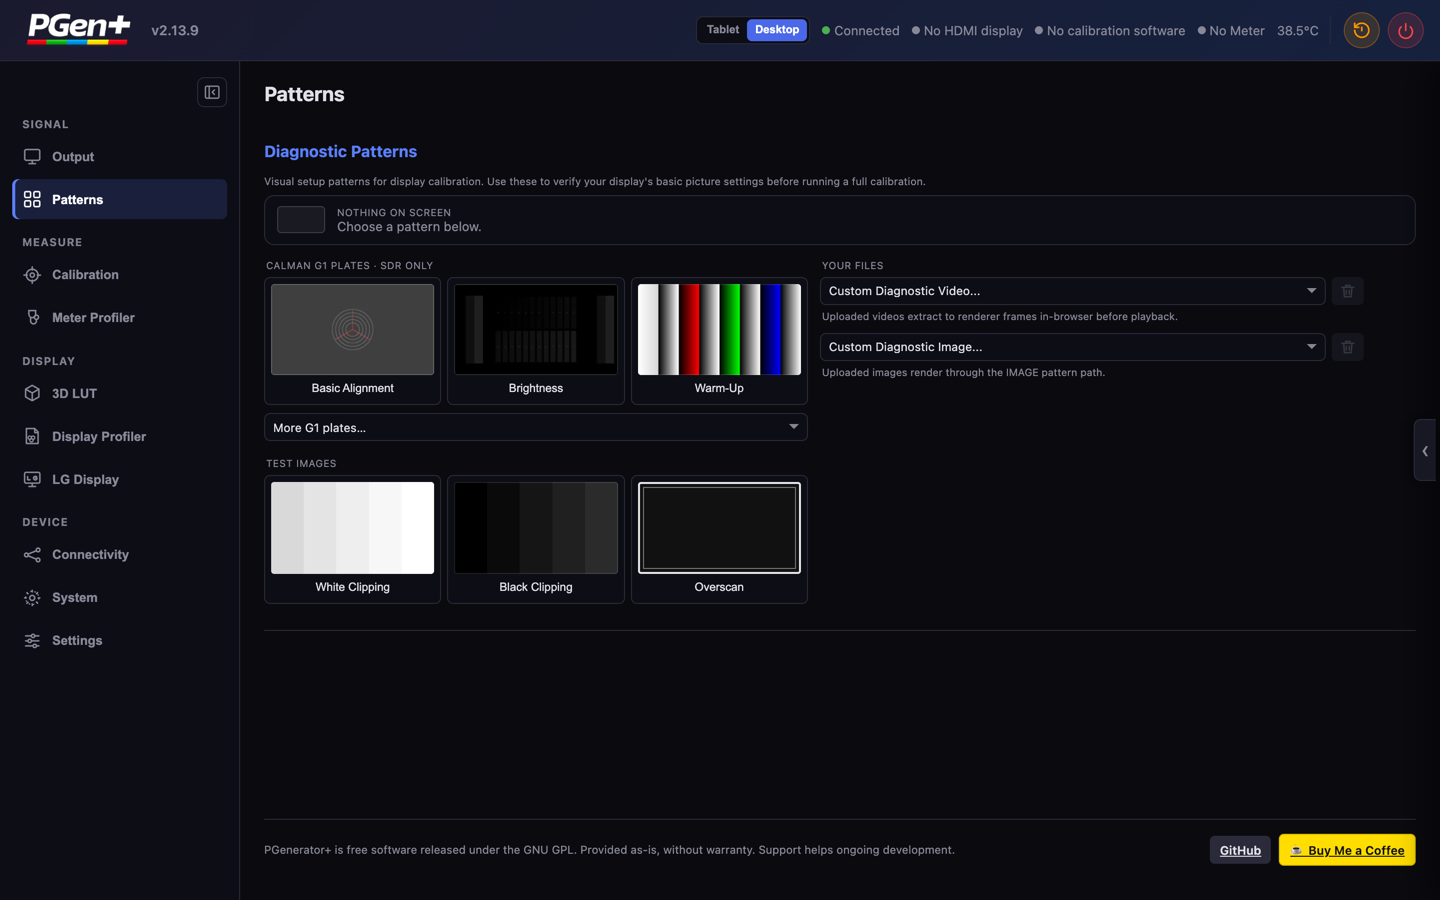
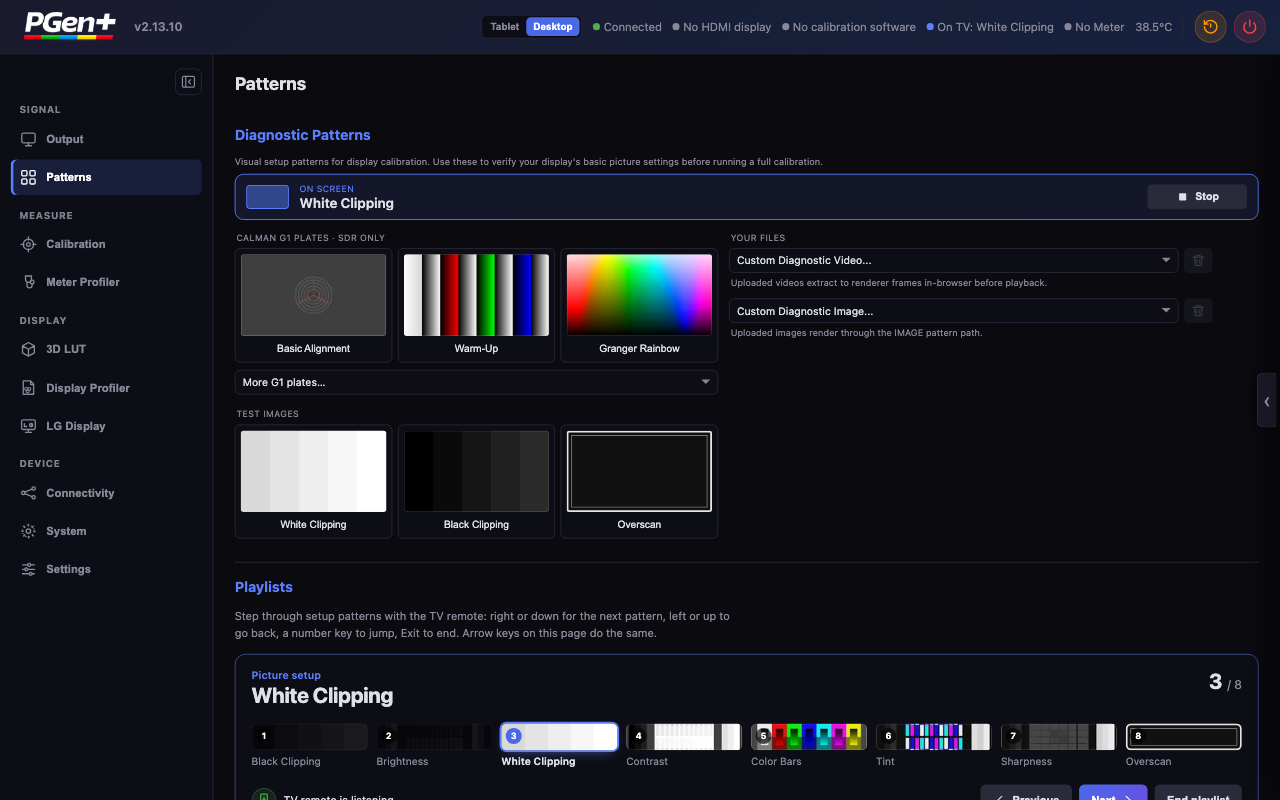
README: TV pattern menu, playlists, self-test; add CLAUDE.md

diff --git a/README.md b/README.md
@@ -21,14 +21,14 @@
 </p>
 
 <p align="center">
-  <img src="screenshots/webui-patterns.png" alt="PGenerator+ Web UI: Patterns workspace with Calman G1 plates and test images" width="900"/>
+  <img src="screenshots/webui-patterns.png" alt="PGenerator+ Web UI: Patterns workspace with Calman G1 plates, test images and the playlist deck" width="900"/>
 </p>
 
 ---
 
 ## Why this fork
 
-This is **BlackJoker90's fork** of [BigShoots/PGenerator-Plus](https://github.com/BigShoots/PGenerator-Plus). It branched from upstream 2.12.1 in September 2026 and has had **110+ commits and 23 releases** since then (2.12.2 → 2.13.x). Upstream has nothing newer that the fork lacks.
+This is **BlackJoker90's fork** of [BigShoots/PGenerator-Plus](https://github.com/BigShoots/PGenerator-Plus). It branched from upstream 2.12.1 in September 2026 and has had **115+ commits and 24 releases** since then (2.12.2 → 2.13.x). Upstream has nothing newer that the fork lacks.
 
 Everything the original does is still here: patterns over TCP for Calman, ColourSpace, HCFR and Resolve; on-Pi meter workflows; LG AutoCal; profile building. The fork's focus is the **signal on the HDMI cable** and the **day-to-day experience**:
 
@@ -37,7 +37,7 @@ Everything the original does is still here: patterns over TCP for Calman, Colour
 <td width="50%" valign="top">
 
 ### 🎯 Bit-exact output
-10-bit pattern codes reach the GPU **without 8-bit quantisation**. **RGB Limited is bit-exact**: a patched vc4 module skips the kernel's compression CSC. HDR10/HLG at 12 bpc goes out as bit-exact 10 bpc instead of crashing the renderer. Scanout readback on the Pi checks the codes; nobody has to eyeball them.
+10-bit pattern codes reach the GPU **without 8-bit quantisation**. **RGB Limited is bit-exact**: a patched vc4 module skips the kernel's compression CSC. HDR10/HLG at 12 bpc goes out as bit-exact 10 bpc instead of crashing the renderer. **8-bit patterns on a 10 bpc link** go out as exactly code × 4 (126 → 504), in SDR, HDR10 and LLDV. The G1 Brightness and Contrast plates switch to **10-bit steps** (0–95, 928–1023) on a 10 bpc link. Scanout readback on the Pi checks the codes; nobody has to eyeball them.
 
 </td>
 <td width="50%" valign="top">
@@ -57,7 +57,7 @@ The UPGCI handshake now has proper ACKs and the settings format Calman actually 
 <td valign="top">
 
 ### 🌈 Dolby Vision, fixed
-Low Latency DV renders at **12 bpc** and really switches the TV into DV. Leaving DV signals "DV off" properly and restores the SDR colorimetry. Calman DV consistently runs as standard DV.
+Low Latency DV renders at **12 bpc** and really switches the TV into DV, with pattern codes sent at 10 bit. Leaving DV signals "DV off" properly and gives back the format, range and depth you had before DV, and the SDR colorimetry. Calman DV consistently runs as standard DV.
 
 </td>
 </tr>
@@ -79,13 +79,27 @@ Without a display, the renderer waits instead of failing. The UI says so in a ba
 <td valign="top">
 
 ### 📦 Safer OTA updates
-Updates come from **this fork's releases**. The dialog shows the release notes and download progress. You can **reinstall or roll back** to an earlier release. Update checks are cached (gentle on the GitHub API), and cross-site requests to the WebUI are refused.
+Updates come from **this fork's releases**. The dialog shows the release notes and download progress. You can **reinstall or roll back** to an earlier release. Packages are about **20 % smaller** (stripped binaries, no duplicate files, unused Python modules dropped). Update checks are cached (gentle on the GitHub API), and cross-site requests to the WebUI are refused.
 
 </td>
 <td valign="top">
 
 ### 🧹 Small things that add up
 mDNS answers AAAA queries with an NSEC record, so clients do not wait for an IPv6 address that never comes. `/api/lg/status` answers in milliseconds instead of ~4 s. The boot splash shows once, early. **Download Logs** replaces the old log upload.
+
+</td>
+</tr>
+<tr>
+<td valign="top">
+
+### 🧪 Signal self-test
+One button in **System** runs nine signal modes (SDR RGB Limited/Full and YCbCr 4:2:2/4:4:4, HDR10 YCbCr 4:2:2/4:4:4, Dolby Vision Standard and Low Latency). In each mode it draws known codes, **reads back what the Pi scans out** and checks the link depth and AVI infoframe. Your signal settings come back afterwards; a quick check covers three modes in about 40 s.
+
+</td>
+<td valign="top">
+
+### 📺 Pattern menu and playlists on the TV remote
+Press **OK or Menu on the TV remote** and a menu of every pattern appears on the TV: G1 plates, test images and playlists as thumbnails. Arrows move, OK shows the pattern, left/right step on, Back returns to the menu. No phone needed. It dims itself in HDR and Dolby Vision and closes after ten idle minutes (OLED). Playlists step the same way: right or down for next, left or up for back, a number key to jump, Exit to end. Three built-in playlists (Picture setup, Greyscale windows, Panel check), plus your own from G1 plates, test images, uploads and APL windows. A deck on the page shows where you are.
 
 </td>
 </tr>
@@ -106,7 +120,10 @@ mDNS answers AAAA queries with an NSEC record, so clients do not wait for an IPv
 | No display connected | renderer started anyway | waits for a display, banner in the UI, saved mode kept |
 | WebUI themes | dark / light / system | **10 themes** incl. Natrium dark & light |
 | HDMI link readout | – | measured link depth and clock |
-| OTA | latest release only | release notes, progress, **reinstall / rollback** |
+| OTA | latest release only | release notes, progress, **reinstall / rollback**, ~20 % smaller packages |
+| Self-test of the HDMI output | – | **built in**: scanout readback, link depth and AVI per mode |
+| Pattern playlists | – | **stepped with the TV remote** (HDMI-CEC), own playlists |
+| On-screen pattern menu | – | **every pattern on the TV**, picked with the remote |
 | Popups | success and error toasts | warnings and errors only |
 
 > The left column describes upstream behaviour as stated in the fork commits that changed it. Run `git log origin/main..main` in a clone with both remotes for the full list.
@@ -115,14 +132,17 @@ mDNS answers AAAA queries with an NSEC record, so clients do not wait for an IPv
 
 <table>
 <tr>
-<td width="68%" valign="top"><img src="screenshots/webui-settings.png" alt="Settings workspace with theme picker, GPU memory and software update"/></td>
-<td width="32%" valign="top"><img src="screenshots/webui-phone.png" alt="Web UI on a phone"/></td>
+<td width="68%" valign="top"><img src="screenshots/webui-playlists.png" alt="Playlist deck with the current pattern, a filmstrip of all steps and the playlist library"/></td>
+<td width="32%" rowspan="3" valign="top"><img src="screenshots/webui-phone.png" alt="Playlists on a phone"/></td>
 </tr>
 <tr>
-<td align="center"><sub>Settings: themes, GPU memory, OTA update and backup in one place</sub></td>
-<td align="center"><sub>Same UI on a phone, with a bottom tab bar</sub></td>
+<td align="center"><sub>Playlists: the deck follows the TV remote; Start, duplicate or edit from the library</sub></td>
+</tr>
+<tr>
+<td valign="top"><img src="screenshots/webui-settings.png" alt="Settings workspace with theme picker, GPU memory and software update"/><br/><p align="center"><sub>Settings: themes, GPU memory, OTA update and backup in one place</sub></p></td>
 </tr>
 </table>
+<p align="center"><sub>Right: the same playlists on a phone, with a bottom tab bar</sub></p>
 
 ---
 
@@ -242,13 +262,13 @@ Served on **port 80** at `http://pgenerator.local`. It has a **Desktop** layout 
 | Workspace | What's in it |
 |---|---|
 | **Output** | Signal mode (SDR / HDR10 / HLG / Dolby Vision), resolution from the EDID, bit depth, colour format, colorimetry, range, and HDR10 and DV metadata. Shows a banner while no display is connected. |
-| **Patterns** | Calman G1 plates (Basic Alignment, Brightness, Warm-Up, more), the test images White Clipping, Black Clipping and Overscan, and your own uploaded images and videos |
+| **Patterns** | Calman G1 plates (favourites Basic Alignment, Warm-Up, Granger Rainbow, plus all others), the test images White Clipping, Black Clipping and Overscan, your own uploaded images and videos, and **playlists** you step through with the TV remote; "Show menu on TV" opens the on-screen pattern menu |
 | **Calibration** | Meter detection, single and continuous reads, series runs (Greyscale 21/11, Colors 30, Saturation 24), charts, and session export |
 | **Meter Profiler** | Meter correction (CCSS) editor and preview |
 | **3D LUT · Display Profiler** | LUT handling, MHC2 / KDE HDR profile building |
 | **LG Display** | LG pairing, AutoCal (greyscale, 3D LUT, HDR tone map, Shadow Fix) |
 | **Connectivity** | Wi-Fi client, access point and Bluetooth in one Network card, plus the Resolve client |
-| **System** | Device info: CPU, memory, temperature, interfaces, uptime |
+| **System** | Device info (CPU, memory, temperature, interfaces, uptime) and the **Signal Self-Test** |
 | **Live Information** (right-hand drawer) | Active signal, the infoframe decoder (AVI and DRM), the measured HDMI link depth and clock, and HDMI-CEC status |
 | **Settings** | Layout, zoom, **10 themes**, GPU memory, software update (with notes, progress, rollback), Download Logs, and settings backup and restore |
 

diff --git a/CLAUDE.md b/CLAUDE.md
@@ -1,0 +1,79 @@
+# PGenerator+ (BlackJoker90 fork)
+
+Raspberry Pi 4 HDMI pattern generator for display calibration. Perl daemon
+(`usr/sbin/PGeneratord` → `usr/share/PGenerator/*.pm`), C++ openFrameworks
+renderer (`src/`, prebuilt as `usr/sbin/PGeneratord` / `.dv`), WebUI
+(`usr/share/PGenerator/webui-*.{html,css,js}`, served by `webui.pm`), helper
+scripts in `usr/bin/`. The Pi runs Perl 5 and Python 3.5: no f-strings, no
+newer stdlib in anything under `usr/`.
+
+The fork's promise is the **signal on the cable**: codes must be bit-exact,
+and that is proven by reading back the scanout, never assumed.
+
+## Local-only material
+
+`t/`, `tools/`, `docs/` and `TASKS.md` are ignored (`.gitignore` /
+`.git/info/exclude`). They exist on the maintainer's machine, not in a clone.
+Check before relying on them.
+
+## Verify after a change
+
+Run what applies and say what was and was not checked:
+
+- `prove -r t` (code-value tests: bits, Calman scaling, G1 plates, playlists)
+- Perl: `perl -I usr/share/PGenerator -c <file>` for scripts in `usr/bin`,
+  `usr/sbin`; modules are checked by `tools/runtime/pgen_release_checks.sh`
+  (`pgen_release_check_runtime_syntax`)
+- WebUI JS: `node -e "new (require('vm').Script)(require('fs').readFileSync('usr/share/PGenerator/webui-app.js','utf8'))"`
+- Python under `usr/bin`: must parse as Python 3.5
+  (`ast.parse(src, feature_version=(3,5))`, or `py_compile` on the Pi)
+- WebUI changes: look at the rendered page at phone (~390 px), tablet and
+  desktop widths; the impeccable detector on changed UI files
+- Signal, renderer or pattern changes: on the Pi at the HDMI output
+  (`/verify` skill, the Signal Self-Test in System, or `pgen_scanout`).
+  Deploy scripts are not verification.
+
+## Rules that bite
+
+- **TV remote**: `pgen_cec_remote.py` only forwards keys to
+  `POST /api/remote/key`; all menu/playlist logic is in webui.pm and
+  `PGTVMenu.pm`. Patterns drawn by the menu run under
+  `local $_tvmenu_drawing=1`; any other `webui_pattern` call marks the menu
+  closed. Never kill the listener from a key handler (it is the caller).
+- **Bit exactness**: prove codes with `/usr/bin/pgen_scanout x y w h`
+  (4:2:2 reads R=Y; 4:4:4 reads R=Cb G=Cr B=Y; standard DV reads packed
+  tunnel bytes). Renderer sources and the rebuilt binaries
+  (`usr/sbin/PGeneratord`, `.dv`) are committed together.
+- `clean_files` deletes every file directly in `/var/lib/PGenerator/` on each
+  daemon start; persistent data goes in a subdirectory (e.g. `playlists/`).
+- The daemon reads the WebUI files at start: a WebUI deploy needs
+  `/etc/init.d/PGenerator restart`.
+- Perl `glob` in scalar context is an iterator; use list context.
+- Never POST `{}` or dummy bodies to settings endpoints (`/api/meter/settings`
+  wiped settings once). Read the handler first; partial `/api/config` bodies
+  are fine.
+- Leaving Dolby Vision restores the pre-DV range/depth/format
+  (`pre_dv_*`); the self-test marks its switches with `selftest:1` so they
+  do not overwrite those.
+
+## Working on the Pi
+
+- Before probes or restarts: `sh /root/pi_calman_busy.sh`. On BUSY, do not
+  touch the device; ask. (It also counts "Calman G1:" log lines, so a
+  recent G1 plate can show BUSY without a Calman connection.)
+- Deploy safely: diff the Pi's file against the branch first, back up to
+  `/root/pgen-backups/`, upload, guard against empty files, compare md5.
+- OLED: test on screen with dim windows (20 IRE, 10 %), not full white.
+- Give the user's signal settings back at the end of a test.
+- Without a display the renderer waits; forcing the connector on without
+  an EDID crashes the renderer on mode switches.
+
+## Git and releases
+
+- Push only with `git push fork main` (fork = BlackJoker90). `origin` is
+  upstream BigShoots: never push there.
+- Releases are OTA packages (`tools/release-ota.sh`); a flashable image
+  only for boot/base-system changes. The release script refuses untracked
+  runtime files: `git add` new files first.
+- Commits, pushes, releases, reboots and deploys need the maintainer's OK.
+- Code comments, commit messages and repo docs are in English.
